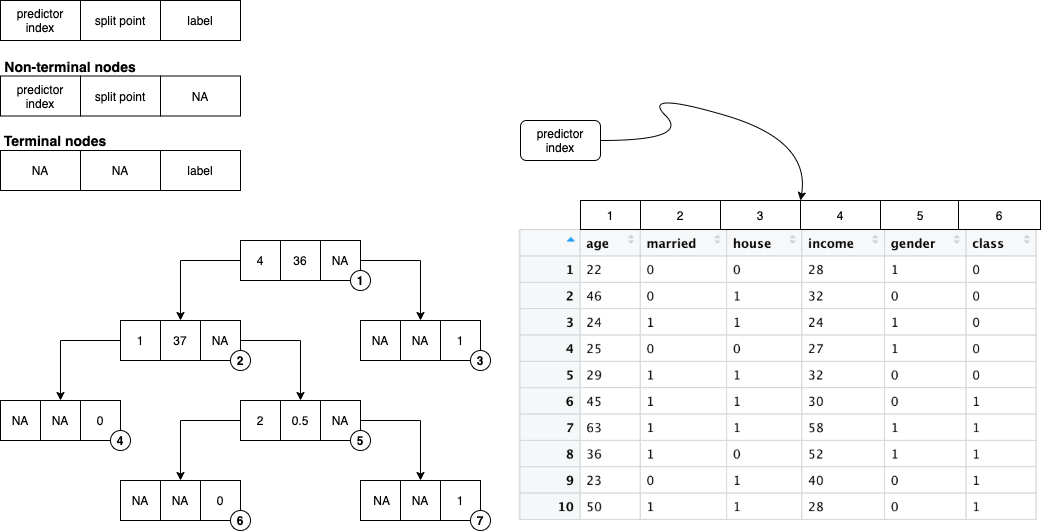
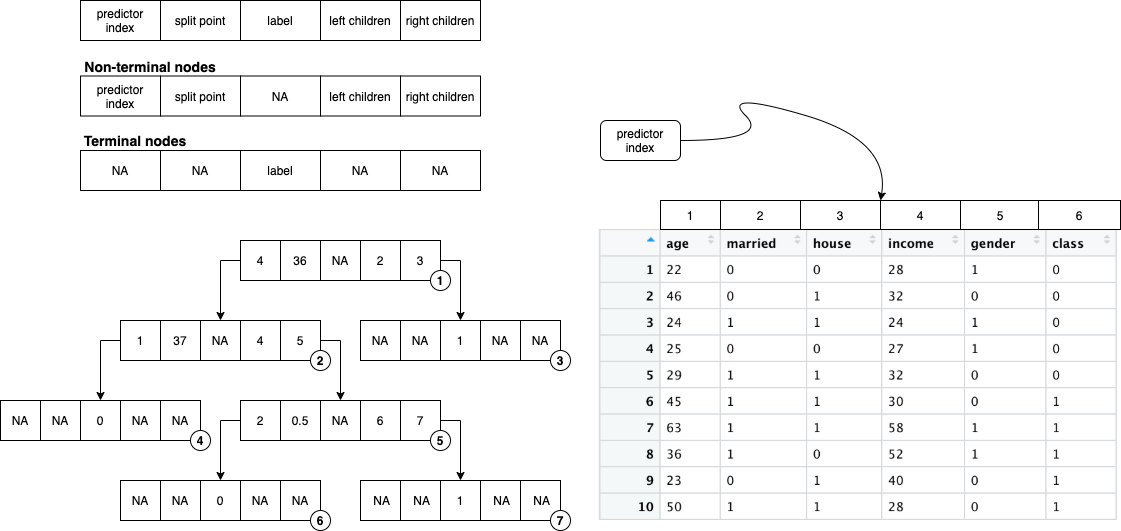
fix the bug of tree_pred and change the data structure of the tree model

diff --git a/assignment-1/code/README.md b/assignment-1/code/README.md
@@ -20,7 +20,7 @@ tree_grow <- function(table, nmin, minleaf, nfeat) {
     # nodelist <- nodelist - current node
     nodelist[[1]] <- NULL
     
-    # If impurity(current node) > 0 AND observations(current node) >= nmin, the current node is allowed to be split.
+    # if impurity(current node) > 0 AND observations(current node) >= nmin, the current node is allowed to be split.
     if(impurity_by_gini_index(current_node[,nfeat+1]) > 0 && length(current_node[,1]) >= nmin) {
       
       # S <- set of candidate splits in current node
@@ -33,12 +33,12 @@ tree_grow <- function(table, nmin, minleaf, nfeat) {
       left_children <- current_node[current_node[,feat.best] <= feat.splitpoints.best,]
       right_children <- current_node[current_node[,feat.best] > feat.splitpoints.best,]
       
-      # Check minleaf constraint
+      # check minleaf constraint
       if(length(left_children[,1]) < minleaf || length(right_children[,1]) < minleaf) {
-      	# If observations(child nodes) < minleaf, stop splitting
+      	# if observations(child nodes) < minleaf, stop splitting
         next
       } else {
-        # If observations(child nodes) >= minleaf, nodelist <- nodelist + child nodes
+        # if observations(child nodes) >= minleaf, nodelist <- nodelist + child nodes
         nodelist[[length(nodelist) + 1]] <- left_children
         nodelist[[length(nodelist) + 1]] <- right_children
       }
